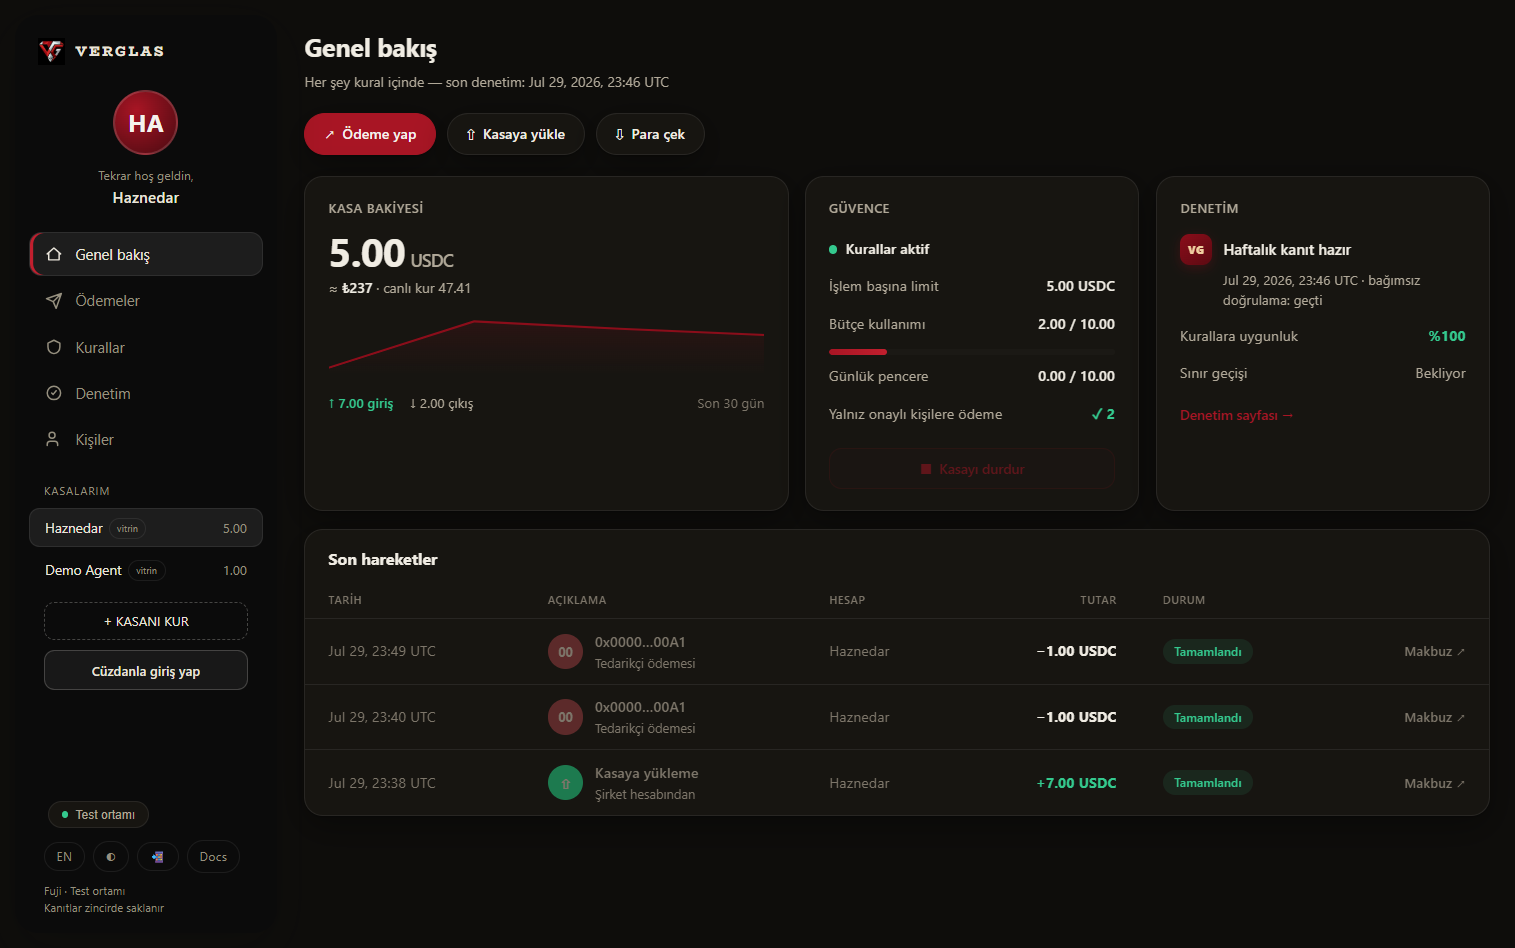
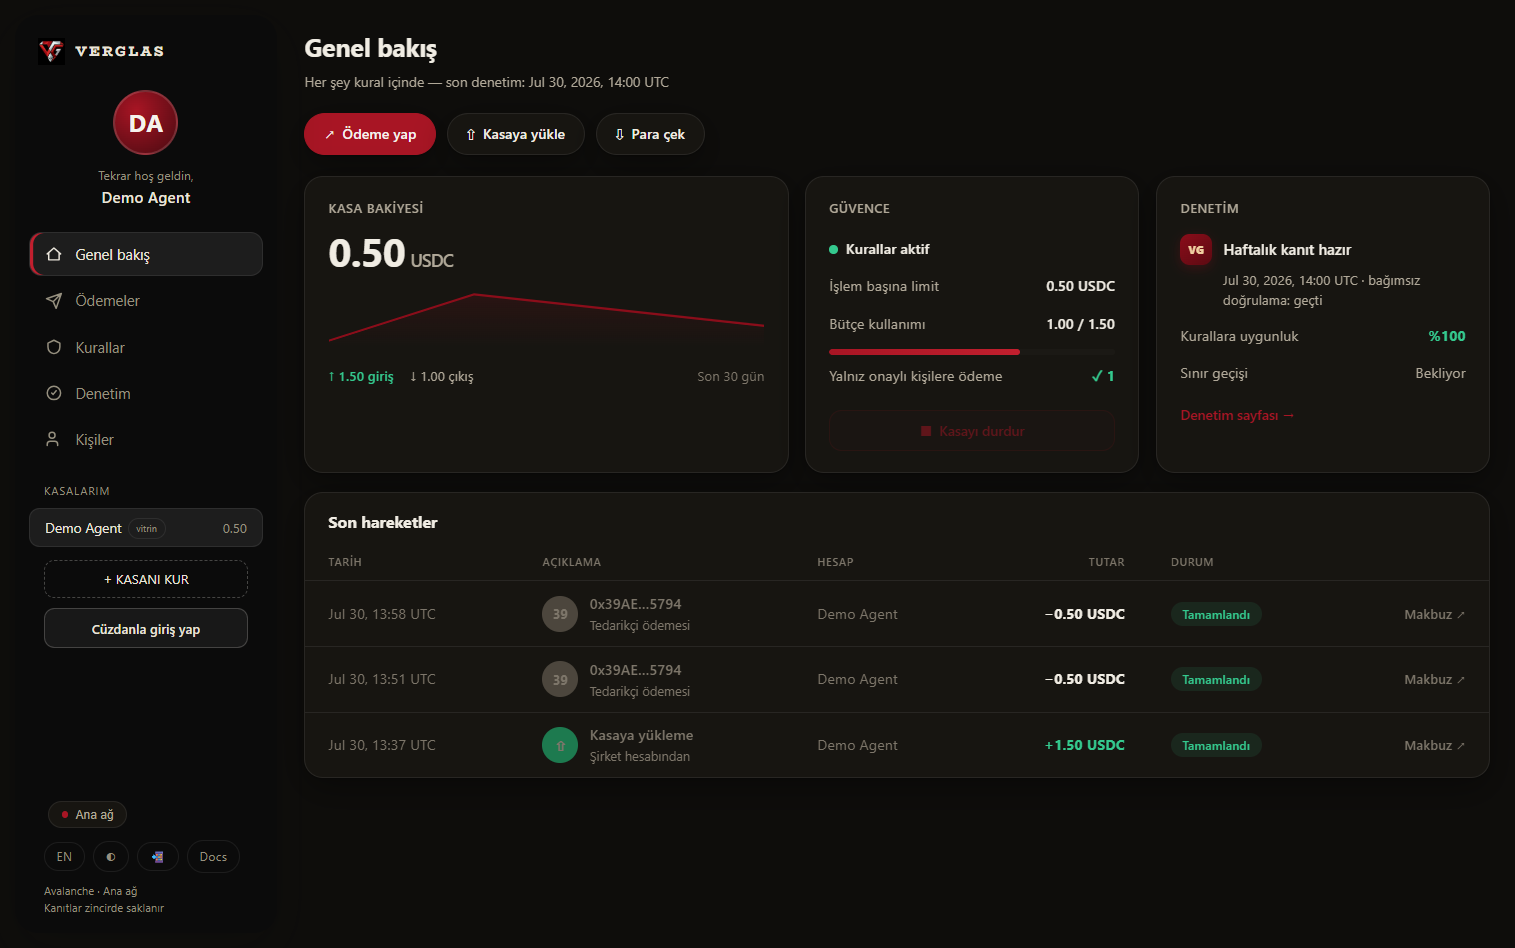
fix(web): stop guessing what a payment is for
Every payment row read 'Supplier payment' and every deposit 'From
company account' - leftovers from the treasurer framing that turn absurd
the moment you pay a person, or yourself. Payments now show the owner's
memo when there is one and otherwise state the vault's actual guarantee
('to an approved recipient'); deposits and withdrawals name the other
side, by address-book name when known. Two orphan i18n keys removed.

Also: README's How-it-works is a hand-drawn SVG instead of a cramped
mermaid block, and the console screenshot is the live MAINNET vault
rather than a testnet demo one.

diff --git a/web/src/app/components/VaultHistory.tsx b/web/src/app/components/VaultHistory.tsx
@@ -40,21 +40,27 @@ export function VaultHistory({ view, vaultLabel, query, limit, kind = null, with
   const { t } = useI18n();
   const [, bump] = useState(0);
 
+  /** Who the other side of a movement is, by name when the address book knows
+      them. Better than a guess about what kind of business this is. */
+  const who = (addr: string | null) => contactName(addr) ?? (addr ? short(addr, 6, 4) : "—");
+
   const describe = (item: HistoryItem): { title: string; sub: string; badge: string; color: string } => {
     switch (item.kind) {
       case "spend": {
         const name = contactName(item.counterparty);
         return {
           title: name ?? short(item.counterparty ?? "0x", 6, 4),
-          sub: t("b_h_payment_sub"),
+          // The vault's own guarantee, not an assumption about the payee's
+          // role — a memo replaces it when the owner wrote one.
+          sub: memoFor(item.txHash) || t("b_h_payment_sub"),
           badge: initials(name, item.counterparty ?? "0x00"),
           color: colorFor(item.counterparty ?? "0x00"),
         };
       }
       case "deposit":
-        return { title: t("b_h_deposit"), sub: t("b_h_deposit_sub"), badge: "⇧", color: "#1d7a4f" };
+        return { title: t("b_h_deposit"), sub: who(item.counterparty), badge: "⇧", color: "#1d7a4f" };
       case "withdraw":
-        return { title: t("b_h_withdraw"), sub: t("b_h_withdraw_sub"), badge: "⇩", color: "#4c463d" };
+        return { title: t("b_h_withdraw"), sub: who(item.counterparty), badge: "⇩", color: "#4c463d" };
       case "freeze":
         return { title: t("b_h_freeze"), sub: t("b_h_by_owner"), badge: "■", color: "#8b0d1a" };
       case "thaw":

diff --git a/web/src/lib/i18n.tsx b/web/src/lib/i18n.tsx
@@ -466,13 +466,11 @@ const en = {
   b_receipt: "Receipt",
   b_detail: "Details",
   b_h_deposit: "Deposit",
-  b_h_deposit_sub: "From company account",
   b_h_withdraw: "Withdrawal",
-  b_h_withdraw_sub: "To company account",
   b_h_freeze: "Vault paused",
   b_h_thaw: "Vault resumed",
   b_h_by_owner: "By the owner",
-  b_h_payment_sub: "Supplier payment",
+  b_h_payment_sub: "To an approved recipient",
   b_people_p: "Name your approved addresses — names stay on this device only.",
   b_role_agent: "Authorized agent",
   b_role_owner: "Owner (you)",
@@ -1007,13 +1005,11 @@ const tr: typeof en = {
   b_receipt: "Makbuz",
   b_detail: "Detay",
   b_h_deposit: "Kasaya yükleme",
-  b_h_deposit_sub: "Şirket hesabından",
   b_h_withdraw: "Para çekimi",
-  b_h_withdraw_sub: "Şirket hesabına",
   b_h_freeze: "Kasa duraklatıldı",
   b_h_thaw: "Kasa çalıştırıldı",
   b_h_by_owner: "Sahip tarafından",
-  b_h_payment_sub: "Tedarikçi ödemesi",
+  b_h_payment_sub: "Onaylı alıcıya",
   b_people_p: "Onaylı adreslere isim ver — isimler yalnız bu cihazda saklanır.",
   b_role_agent: "Yetkili robot (agent)",
   b_role_owner: "Sahip (sen)",

diff --git a/sdk/src/chains.ts b/sdk/src/chains.ts
@@ -192,11 +192,14 @@ export const NETWORKS: Record<VerglasNetwork["key"], VerglasNetwork> = {
       factory: "0xc07ef259Eb88742e00113d9F460F5D2081078960",
       legacyFactories: [],
       deployBlock: 0x575ac8dn,
-      // No showcase vault yet and no treasurer vertical on mainnet — the
-      // console shows "create your vault" instead of borrowed rows.
+      // The first mainnet vault, shown to visitors so the console has
+      // something real on it before they connect a wallet: agent #1783, two
+      // USDC payments, one score-100 attestation.
+      account: "0x004cd1dAc729a1E4A05e235A56985c368E94C3c5",
+      agentId: 1783n,
       // The oracle lives at 0x31900CA6bBd05ac2516feB6798f6aeB86FD41239
       // (owner: the project wallet, keeper: the service key); it gets wired in
-      // with the treasurer.
+      // with the treasurer vertical, which is not on mainnet yet.
       // No gate either: cross-chain clearance is M3, per L1 operator.
     },
   },
